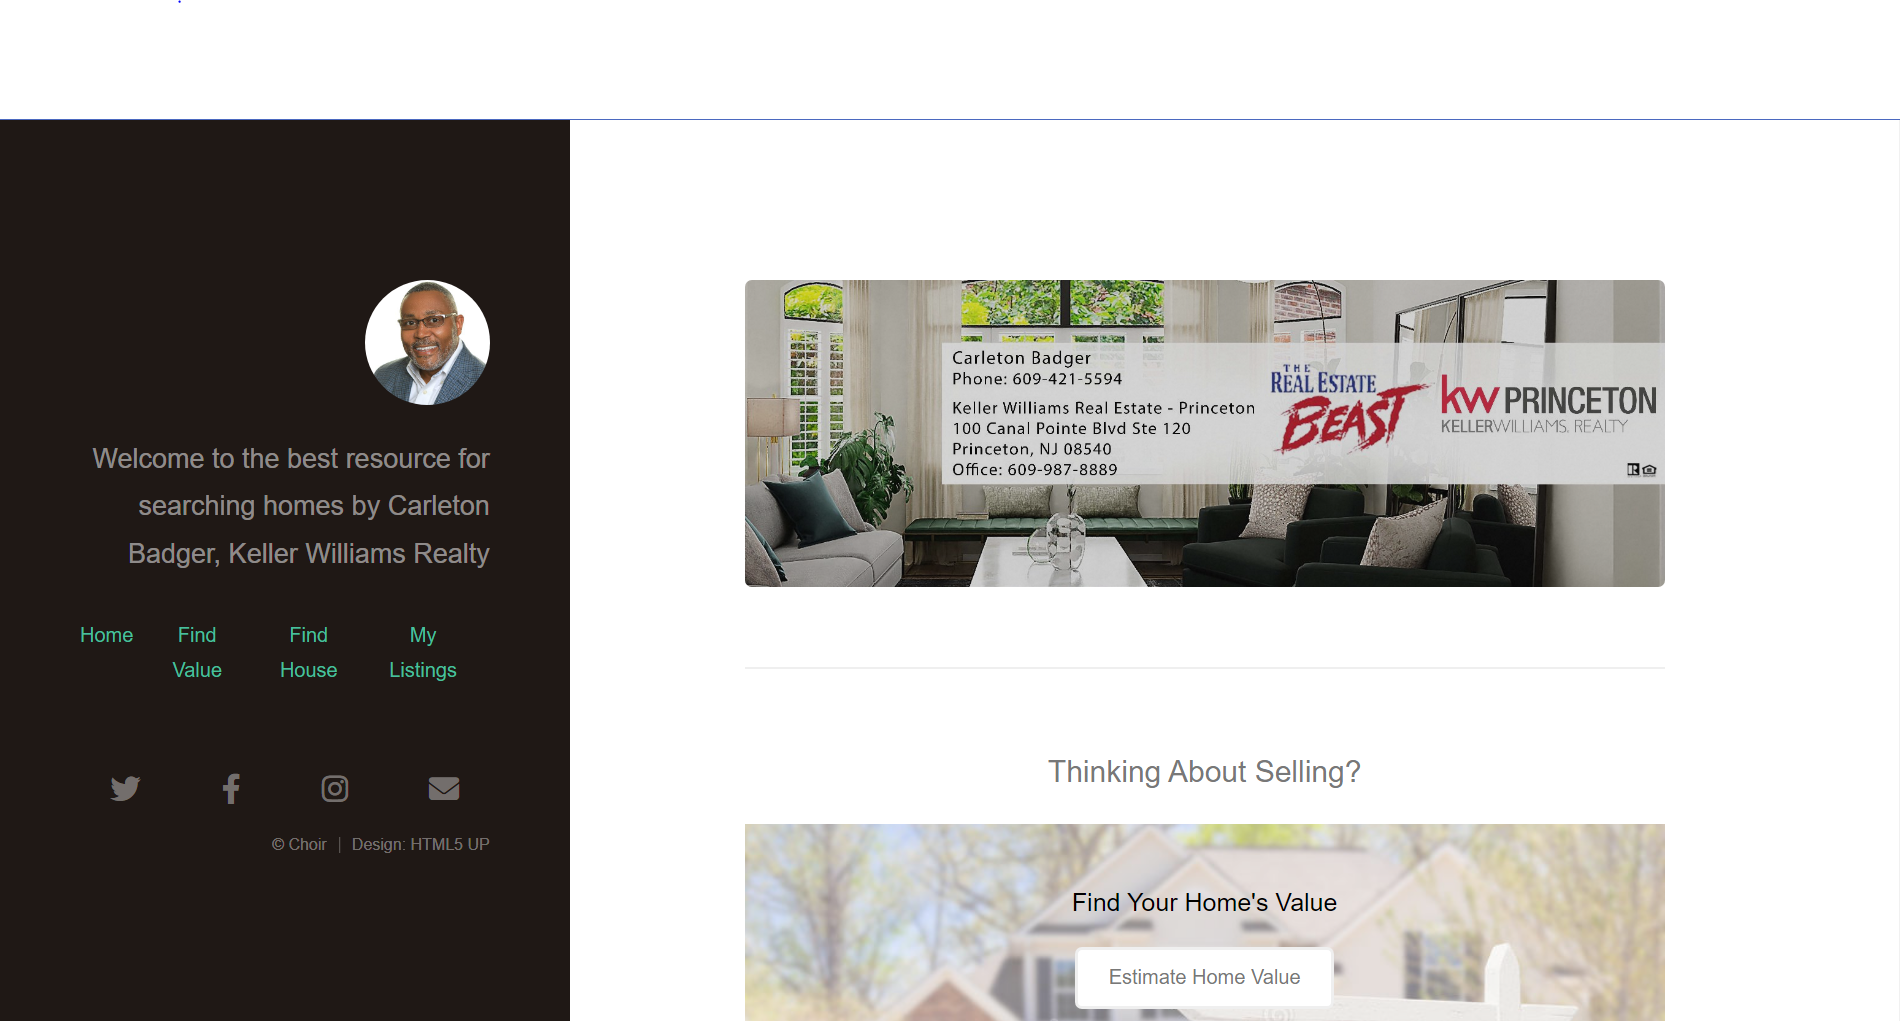
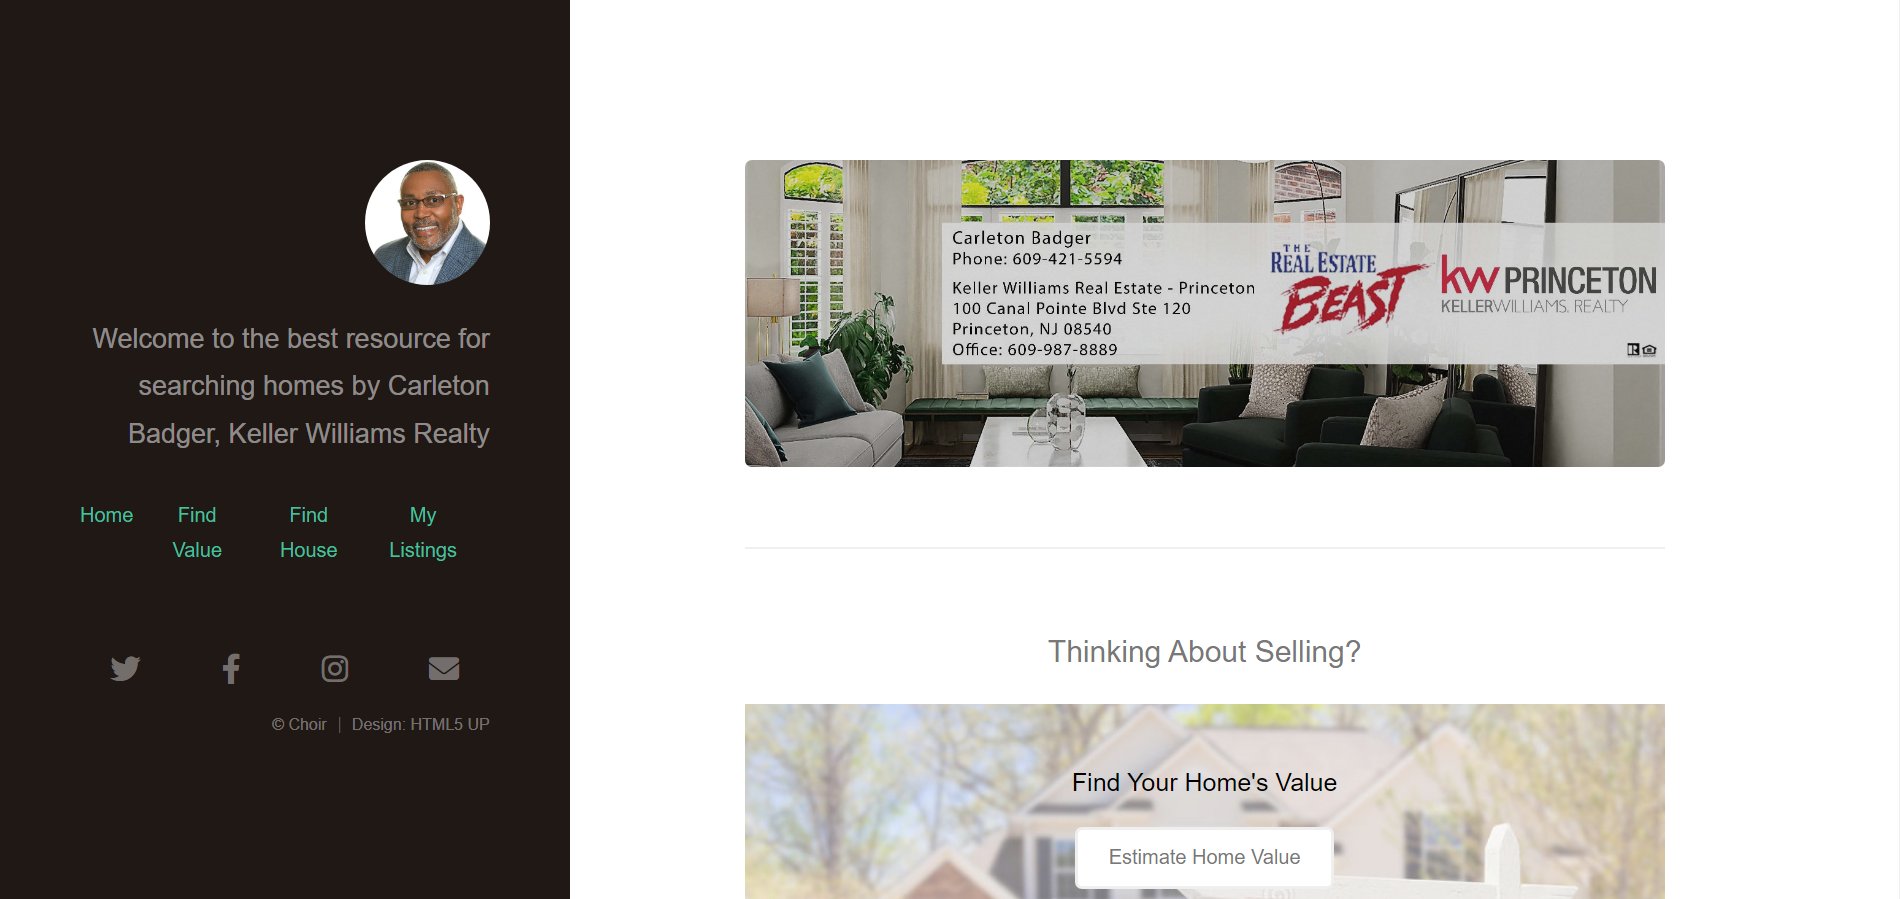
added js logic for closing and opening menu

diff --git a/index.html b/index.html
@@ -12,23 +12,29 @@
 <body>
     <header id = 'header' class = 'flex column alignItems justifyContent'>
 
+		<!-- class = 'hidden' -->
+		<div class = 'flex row bars'><img src = 'images/bars.svg' alt ='' id = 'menu'></div>
+		<div class = 'nav flex row hidden'>
+		<nav id = 'nav' >
+		<div class = 'flex row cross'><img src = 'images/close.svg' alt ='' id = 'close'></div>
+			<h3 class = 'font'>Menu</h3>
+			<ul id = 'ul'>    
+				<li><a class = 'font' href=#home>Home</a></li>
+				<li><a class = 'font' href=#websites>My Websites</a></li>
+				<li><a class = 'font' href=#services>My Services</a></li>
+				<li><a class = 'font' href=#about>About Me</a></li>
+				<li><a class = 'font' href=#contact>Contact</a></li>
+			</ul>
+		</nav>
+	</div>
 
-		<h1 class ='font'><a class = 'font' id = 'home'>Richard Choi - Web Dev</a></h1>
-		<p class = 'font'>Hello, I'm Richard, A Software Engineer! Feel free to look at what I've done so far!</p>
+		<h1 class ='font'><a class = 'container font' id = 'home'>Richard Choi - Web Dev</a></h1>
+		<p class = 'font container'>Hello, I'm Richard, A Software Engineer! Feel free to look at what I've done so far!</p>
 
-    <nav id = 'nav' class = 'hidden'>
-        <a href="#menu" class = 'font'><h3>Menu</h3></a>
-		<ul id = 'ul'>    
-			<li><a class = 'font' href=#home>Home</a></li>
-			<li><a class = 'font' href=#websites>My Websites</a></li>
-			<li><a class = 'font' href=#services>My Services</a></li>
-			<li><a class = 'font' href=#about>About Me</a></li>
-			<li><a class = 'font' href=#contact>Contact</a></li>
-		</ul>
-    </nav>
 <div class = 'flex column alignItems' id = 'click'>
 
-	<a href="#one" class="font click">Click to Learn More</a>
+	<a href="#one" class="container font click">Click to Learn More</a>
+	<a href="#one" class = 'container flex justifyContent row'><img src = 'images/arrow.svg' alt = '' id = 'arrow'></a>
 
 </div>
     </header>
@@ -46,7 +52,7 @@
 				<a target="_blank" href="https://therealestatebeast.netlify.app/" class="font button">Click to view!</a>
             </div>
             <div class="right flex column alignItems">
-				<h2 class = 'font'>Fate Grand Order Simulation</h2>
+				<h2 class = 'font'>FGO Simulation</h2>
 			<a target="_blank" href = 'https://fgo-battle-simulator.netlify.app/' class="column flex alignItems" >
 				<img src="images/capture.png" alt="fate grand order preview" / class = 'fgo'>
 			</a>
@@ -56,7 +62,7 @@
 
 	<section class = 'flex row websites section2-2'>
 		<div class="left flex column alignItems">
-	<h2 class = 'font'>Anime Mobile Games Collection</h2>
+	<h2 class = 'font'>Anime Mobile Collection</h2>
         <a target="_blank" href = 'https://mobile-games.netlify.app/' class = 'column alignItems flex'>
 			<img src="images/mobile-web-preview.png" alt="" />
 		</a>
@@ -64,7 +70,7 @@
 	</div>
 
 	<div class="right flex column alignItems">
-		<h2 class = 'font'>Playing Cards</h2>
+		<h2 class = 'font'>Playing Casino Simulation</h2>
 	     <a target="_blank" href = 'https://jackblack-simulator.netlify.app/' class ='column flex alignItems'>
 			<img src="images/Indie Games Preview.PNG" alt="" />
 		</a>
@@ -85,7 +91,7 @@
         </div>
 
 		<div class="right flex column alignItems">
-			<h2 class = 'font'>A Website All About Pokemon</h2>
+			<h2 class = 'font'>All About Pokemon</h2>
         <a target="_blank" href = 'https://poke-mon-web.netlify.app/' class = 'column flex alignItems'>
 			<img src="images/pokemon.png" alt="" />
 		</a>

diff --git a/css/style.css b/css/style.css
@@ -43,27 +43,92 @@ html{
     line-height: 3rem;
 }
 
-
 /* Nav
    ========================================================================== */
+.nav{
+    width: 100%;
+    justify-content: flex-end;
+    position: fixed;
+    height: 100%;
+}
+
+#menu{
+    width: 5%;
+position: fixed;
+}
+
+#menu:hover, #close:hover{
+    opacity: .80;
+    cursor:pointer;
+}
+
+.cross{
+justify-content: flex-end;
+}
+
+#close{
+    width: 20%;
+}
+
+.bars{
+    justify-content: flex-end;
+    align-items: flex-start;
+    width: 100%;
+    height: 34vh;
+}
+
+#nav{
+    background-color:black;
+    width: 25%;
+}
+
+#nav h3{
+padding-left: 4rem;
+font-size: 3.5rem;
+text-align: left;
+}
+
+#nav li{
+    border-bottom: 2px solid white;
+    width: 40%;
+    margin-bottom: 2rem;
+}
 
 li{
     list-style-type: none;
 }
 
-.nav li{
-    border-bottom: 1px solid black;
+
+
+#arrow{
+    margin-top: 1rem;
 }
 
-
+#arrow:hover{
+    cursor: pointer;
+}
 
 /* Header
    ========================================================================== */
+   .container{
+    animation: fadeInAnimation ease 1s;
+    animation-iteration-count: 1;
+    animation-fill-mode: forwards;
+
+}
+
+@keyframes fadeInAnimation {
+	0% { opacity: 0; }
+    25% { opacity: 0.25; }
+    50% { opacity: 0.5; }
+    75% { opacity: 0.75; }
+	100% { opacity: 1; }
+  }
+
 
 header{
     background: no-repeat url('images/background.jpg') center/cover;
     height: 100vh;
-    padding-top:9rem;
 }
 
 header.flex p{
@@ -71,20 +136,25 @@ header.flex p{
     width: 17%;
     font-weight: bold;
     color: black;
-    margin-bottom: -24rem;
 }
 
 #header h1 a{
     font-size: 5rem;
     padding: 1rem 0;
+text-decoration: none;
+font-weight: bold;
+}
+
+
+#header h1 a{
     border-top: 2px solid white;
     border-bottom: 2px solid white;
-    font-weight: bold;
 }
 
 #click{
     justify-content: flex-end;
     height: 62vh;
+    margin-bottom: 5rem;
 }
 #click a{
     letter-spacing: .1rem;
@@ -348,7 +418,3 @@ form label{
     margin-right: 2rem;
    }
 
-
-   body *{
-    border: 2px solid white;
-   }

diff --git a/js/main.js b/js/main.js
@@ -1,0 +1,16 @@
+let menu = document.querySelector('#menu')
+let close = document.querySelector('#close')
+
+menu.addEventListener('click',showMenu)
+
+function showMenu(){
+    document.querySelector('.nav').classList.remove('hidden')
+    menu.classList.add('hidden')
+}
+
+close.addEventListener('click',closeMenu)
+
+function closeMenu(){
+    menu.classList.remove('hidden')
+    document.querySelector('.nav').classList.add('hidden')
+}
